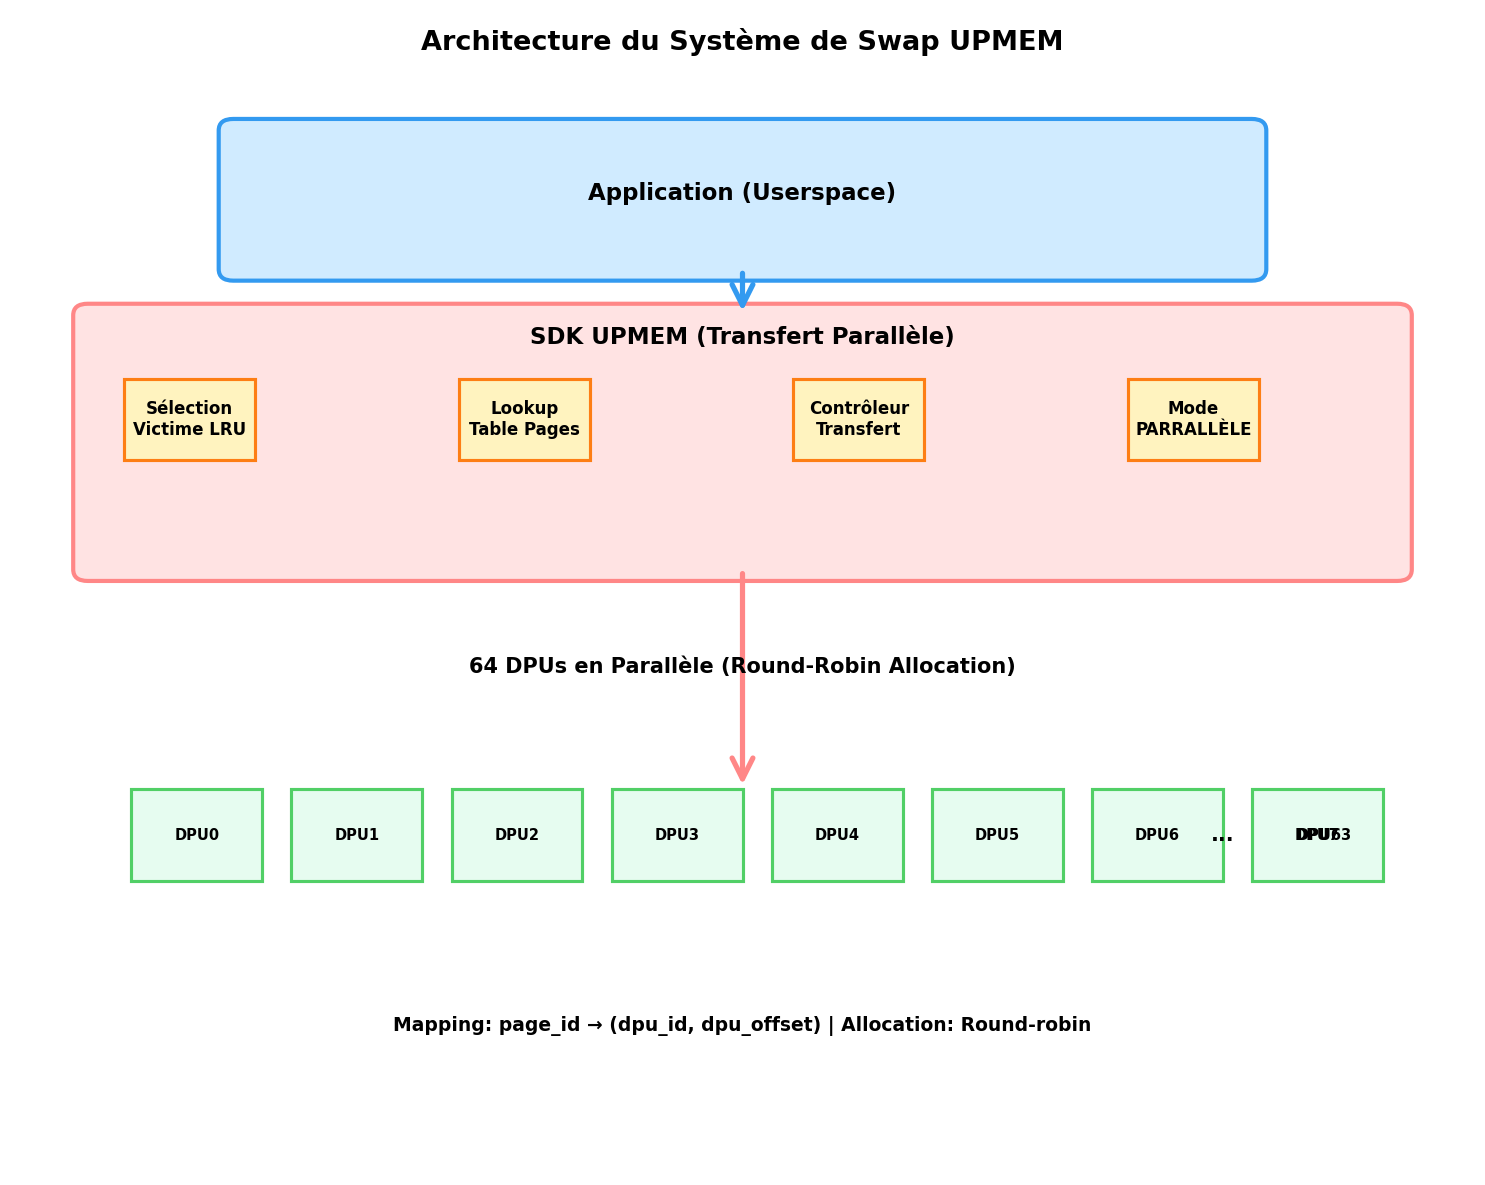
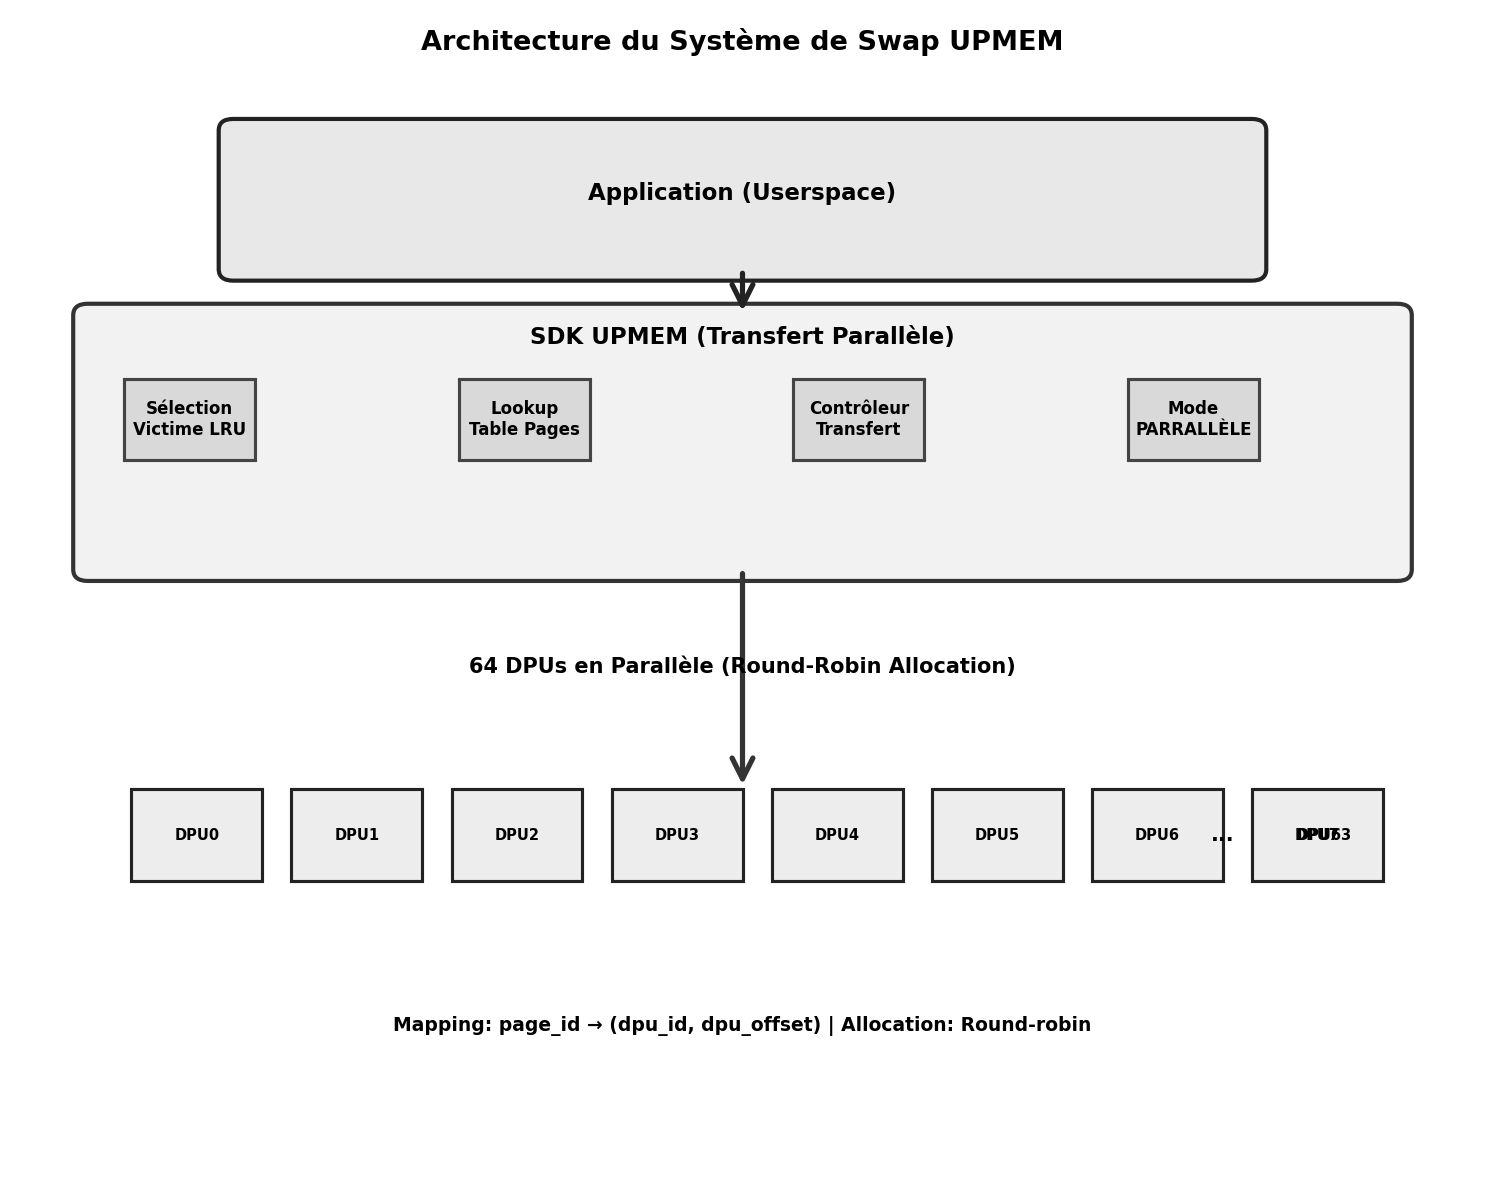
chore(figures): regenerate compact grayscale publication charts

diff --git a/scripts/generate_final_figures.py b/scripts/generate_final_figures.py
@@ -23,13 +23,13 @@ ax.text(5, 9.7, 'Architecture du Système de Swap UPMEM',
 from matplotlib.patches import FancyBboxPatch, FancyArrowPatch, Rectangle
 
 app_box = FancyBboxPatch((1.5, 7.8), 7, 1.2, boxstyle="round,pad=0.1",
-                         edgecolor='#339af0', facecolor='#d0ebff', linewidth=2)
+                         edgecolor='#222222', facecolor='#e8e8e8', linewidth=2)
 ax.add_patch(app_box)
 ax.text(5, 8.4, 'Application (Userspace)', fontsize=11, fontweight='bold', ha='center')
 
 sdk_y = 5.2
 sdk_box = FancyBboxPatch((0.5, sdk_y), 9, 2.2, boxstyle="round,pad=0.1",
-                         edgecolor='#ff8787', facecolor='#ffe3e3', linewidth=2)
+                         edgecolor='#333333', facecolor='#f2f2f2', linewidth=2)
 ax.add_patch(sdk_box)
 ax.text(5, sdk_y + 1.95, 'SDK UPMEM (Transfert Parallèle)', fontsize=11, fontweight='bold', ha='center')
 
@@ -41,13 +41,13 @@ components = [
 ]
 
 for x, y, label in components:
-    comp_box = Rectangle((x-0.45, y-0.35), 0.9, 0.7, 
-                         edgecolor='#fd7e14', facecolor='#fff3bf', linewidth=1.5)
+    comp_box = Rectangle((x-0.45, y-0.35), 0.9, 0.7,
+                         edgecolor='#444444', facecolor='#d9d9d9', linewidth=1.5)
     ax.add_patch(comp_box)
     ax.text(x, y, label, fontsize=8, ha='center', va='center', fontweight='bold')
 
 arrow1 = FancyArrowPatch((5, 7.8), (5, 7.4),
-                        arrowstyle='->', mutation_scale=25, linewidth=2.5, color='#339af0')
+                        arrowstyle='->', mutation_scale=25, linewidth=2.5, color='#222222')
 ax.add_patch(arrow1)
 
 dpu_y = 2.5
@@ -57,7 +57,7 @@ ax.text(5, dpu_y + 1.8, '64 DPUs en Parallèle (Round-Robin Allocation)',
 for i in range(8):
     x_pos = 0.8 + i * 1.1
     dpu_small = Rectangle((x_pos, dpu_y), 0.9, 0.8,
-                          edgecolor='#51cf66', facecolor='#e6fcf0', linewidth=1.5)
+                          edgecolor='#222222', facecolor='#ededed', linewidth=1.5)
     ax.add_patch(dpu_small)
     ax.text(x_pos + 0.45, dpu_y + 0.4, f'DPU{i}', fontsize=7, ha='center', va='center', fontweight='bold')
 
@@ -65,7 +65,7 @@ ax.text(8.3, dpu_y + 0.4, '...', fontsize=10, fontweight='bold', ha='center', va
 ax.text(9.0, dpu_y + 0.4, 'DPU63', fontsize=7, ha='center', va='center', fontweight='bold')
 
 arrow2 = FancyArrowPatch((5, sdk_y), (5, dpu_y + 0.8),
-                        arrowstyle='->', mutation_scale=25, linewidth=2.5, color='#ff8787')
+                        arrowstyle='->', mutation_scale=25, linewidth=2.5, color='#333333')
 ax.add_patch(arrow2)
 
 ax.text(5, 1.2, 'Mapping: page_id → (dpu_id, dpu_offset) | Allocation: Round-robin',
@@ -77,52 +77,57 @@ print("✓ Figure 1: Architecture")
 plt.close()
 
 # ============= FIGURE 2: SPEEDUP avec VALUES =============
-fig, ax = plt.subplots(figsize=(9, 5))
+fig, ax = plt.subplots(figsize=(6, 3), dpi=100)
 
 dpus = np.array([1, 8, 16, 32, 64])
 write_speedup = np.array([0.97, 6.04, 10.44, 14.87, 15.62])
 read_speedup = np.array([0.80, 6.05, 14.30, 14.67, 27.10])
 
-x_pos = np.arange(len(dpus))
-width = 0.35
+# tighter grouping so bars remain legible in article scale
+x_pos = np.arange(len(dpus)) * 0.82
+width = 0.40
 
-bars_write = ax.bar(x_pos - width/2, write_speedup, width, 
-                    label='WRITE', color='#4dabf7', edgecolor='black', linewidth=1)
+bars_write = ax.bar(x_pos - width/2, write_speedup, width,
+                    label='WRITE', color='#4d4d4d', edgecolor='black', linewidth=1)
 bars_read = ax.bar(x_pos + width/2, read_speedup, width,
-                   label='READ', color='#51cf66', edgecolor='black', linewidth=1)
+                   label='READ', color='#a6a6a6', edgecolor='black', linewidth=1)
 
-# Add values ON bars
-for i, (w, r) in enumerate(zip(write_speedup, read_speedup)):
-    if w > 1.5:  # Only show if > 1.5 (skip the ~1 value)
-        ax.text(i - width/2, w + 0.3, f'{w:.1f}x', ha='center', fontsize=9, fontweight='bold')
-    if r > 1.5:
-        ax.text(i + width/2, r + 0.3, f'{r:.1f}x', ha='center', fontsize=9, fontweight='bold')
+# Add values anchored to actual bar geometry (prevents shifted labels)
+for bar in bars_write:
+    h = bar.get_height()
+    if h > 1.5:
+        ax.text(bar.get_x() + bar.get_width() / 2.0, h + 0.35, f'{h:.1f}x',
+                ha='center', va='bottom', fontsize=8, fontweight='bold')
+for bar in bars_read:
+    h = bar.get_height()
+    if h > 1.5:
+        ax.text(bar.get_x() + bar.get_width() / 2.0, h + 0.35, f'{h:.1f}x',
+                ha='center', va='bottom', fontsize=8, fontweight='bold')
 
-ax.set_xlabel('Nombre de DPUs', fontsize=11, fontweight='bold')
-ax.set_ylabel('Speedup (facteur)', fontsize=11, fontweight='bold')
-ax.set_title('Speedup Mode Parallèle vs Séquentiel', fontsize=12, fontweight='bold')
+ax.set_xlabel('Nombre de DPUs', fontsize=9, fontweight='bold')
+ax.set_ylabel('Speedup (facteur)', fontsize=9, fontweight='bold')
+ax.set_title('Speedup Parallèle vs Séquentiel', fontsize=10, fontweight='bold')
 ax.set_xticks(x_pos)
 ax.set_xticklabels(dpus)
-ax.legend(fontsize=10, loc='upper left')
+ax.legend(fontsize=8, loc='upper left')
 ax.grid(axis='y', alpha=0.2, linestyle='--')
-ax.set_ylim(0, 30)
+ax.set_ylim(0, 31)
 
 plt.tight_layout()
-plt.savefig('simulator/results/Figure2_Speedup.png', dpi=150, bbox_inches='tight', facecolor='white')
+plt.savefig('simulator/results/Figure2_Speedup.png', dpi=100, facecolor='white')
 print("✓ Figure 2: Speedup (avec VALUES)")
 plt.close()
 
-# ============= FIGURE 3: BASELINES sans crochets =============
-fig, ax = plt.subplots(figsize=(10, 5))
+# ============= FIGURE 3: BASELINES FOCUS (required set) =============
+fig, ax = plt.subplots(figsize=(8, 4.2))
 
-# Names WITHOUT line breaks
-solutions = ['RDMA', 'Optane', 'NVMe fast', 'UPMEM 1 DPU', 'NVMe typical', 'SATA SSD', 'Linux swap']
+solutions = ['zram', 'InfiniSwap', 'NVMe SSD', 'UPMEM\nBaseline', 'UPMEM\nCPU', 'UPMEM\nDPU']
 
-latencies_mid = [10, 11.5, 35, 31, 80, 157.5, 250]
-latencies_err_lower = [5, 10, 20, 0, 60, 140, 100]
-latencies_err_upper = [5, 2.5, 15, 0, 20, 17.5, 150]
+latencies_mid = [35, 35, 160, 29.59, 14.71, 31.28]
+latencies_err_lower = [15, 5, 0, 0, 0, 0]
+latencies_err_upper = [15, 5, 0, 0, 0, 0]
 
-colors = ['#ff6b6b', '#ff8c42', '#ffa94d', '#51cf66', '#a0a0a0', '#808080', '#606060']
+colors = ['#b3b3b3', '#9a9a9a', '#7f7f7f', '#666666', '#4d4d4d', '#333333']
 
 x_pos = np.arange(len(solutions))
 
@@ -132,11 +137,11 @@ ax.bar(x_pos, latencies_mid,
        color=colors, edgecolor='black', linewidth=1, alpha=0.85)
 
 ax.set_ylabel('Latence (µs)', fontsize=11, fontweight='bold')
-ax.set_title('Latence Swap 4KB: UPMEM vs Alternatives', fontsize=12, fontweight='bold')
+ax.set_title('Latence Swap 4KB: baselines requises + UPMEM', fontsize=12, fontweight='bold')
 ax.set_xticks(x_pos)
-ax.set_xticklabels(solutions, fontsize=10, rotation=45, ha='right')
+ax.set_xticklabels(solutions, fontsize=10)
 ax.grid(axis='y', alpha=0.2, linestyle='--')
-ax.set_ylim(0, 400)
+ax.set_ylim(0, 190)
 
 plt.tight_layout()
 plt.savefig('simulator/results/Figure3_Baselines.png', dpi=150, bbox_inches='tight', facecolor='white')

diff --git a/simulator/plot_compression.py b/simulator/plot_compression.py
@@ -1,0 +1,81 @@
+#!/usr/bin/env python3
+import csv
+import matplotlib.pyplot as plt
+import numpy as np
+from pathlib import Path
+
+ROOT = Path(__file__).resolve().parent
+RESULTS = ROOT / "results"
+INPUTS = {
+    "A\nCPU": RESULTS / "optionA.csv",
+    "B\nDPU": RESULTS / "optionB.csv",
+    "Base": RESULTS / "optionC.csv",
+}
+OUT = RESULTS / "compression_tradeoffs.png"
+OUT2 = RESULTS / "compression_latency_cpu_tradeoff.png"
+
+rows = {}
+for label, path in INPUTS.items():
+    if not path.exists():
+        raise SystemExit(f"Missing input CSV: {path}")
+    with path.open() as f:
+        reader = csv.DictReader(f)
+        row = next(reader, None)
+        if row is None:
+            raise SystemExit(f"Empty CSV: {path}")
+        rows[label] = row
+
+labels = list(rows.keys())
+swapout = []
+cpu = []
+ratio = []
+for label in labels:
+    r = rows[label]
+    swapout.append(float(r["avg_swapout_us"]))
+    cpu.append(float(r.get("avg_cpu_overhead_us", 0.0)))
+    ratio.append(float(r.get("compression_ratio", 1.0)))
+
+plt.rcParams.update({"font.size": 10})
+fig, (ax1, ax2) = plt.subplots(1, 2, figsize=(6, 3), dpi=100)
+
+x = np.arange(len(labels))
+w = 0.35
+
+ax1.bar(x - w / 2, swapout, w, label="Swap-out (µs)", color="#444444")
+ax1.bar(x + w / 2, cpu, w, label="CPU overhead (µs)", color="#aaaaaa")
+ax1.set_xticks(x)
+ax1.set_xticklabels(labels, fontsize=9)
+ax1.set_ylabel("Microseconds", fontsize=9)
+ax1.legend(fontsize=7, loc="upper right", frameon=True)
+ax1.grid(axis="y", alpha=0.3)
+
+ax2.bar(labels, ratio, color="#777777")
+ax2.set_ylabel("Compression ratio", fontsize=9)
+ax2.set_ylim(0, max(8, max(ratio) * 1.1))
+ax2.grid(axis="y", alpha=0.3)
+
+fig.tight_layout(pad=0.8)
+OUT.parent.mkdir(parents=True, exist_ok=True)
+fig.savefig(OUT, dpi=100)
+print(f"Figure saved: {OUT} (600x300px)")
+
+# Second compact figure: latency vs CPU overhead positioning
+fig2, ax = plt.subplots(figsize=(6, 3), dpi=100)
+latency = []
+for label in labels:
+    r = rows[label]
+    latency.append(float(r["avg_swapout_us"]))
+
+point_colors = ["#333333", "#777777", "#b0b0b0"]
+for i, label in enumerate(labels):
+    ax.scatter(cpu[i], latency[i], s=70, c=point_colors[i], edgecolors="black", label=label.replace("\n", " "))
+
+ax.set_xlabel("CPU overhead (µs/page)", fontsize=9)
+ax.set_ylabel("Swap-out latency (µs/page)", fontsize=9)
+ax.set_title("Latency vs CPU overhead (A/B/C)", fontsize=10)
+ax.legend(fontsize=7, loc="upper right", frameon=True)
+ax.grid(alpha=0.3)
+ax.set_xlim(left=-0.2)
+fig2.tight_layout(pad=0.8)
+fig2.savefig(OUT2, dpi=100)
+print(f"Figure saved: {OUT2} (600x300px)")
